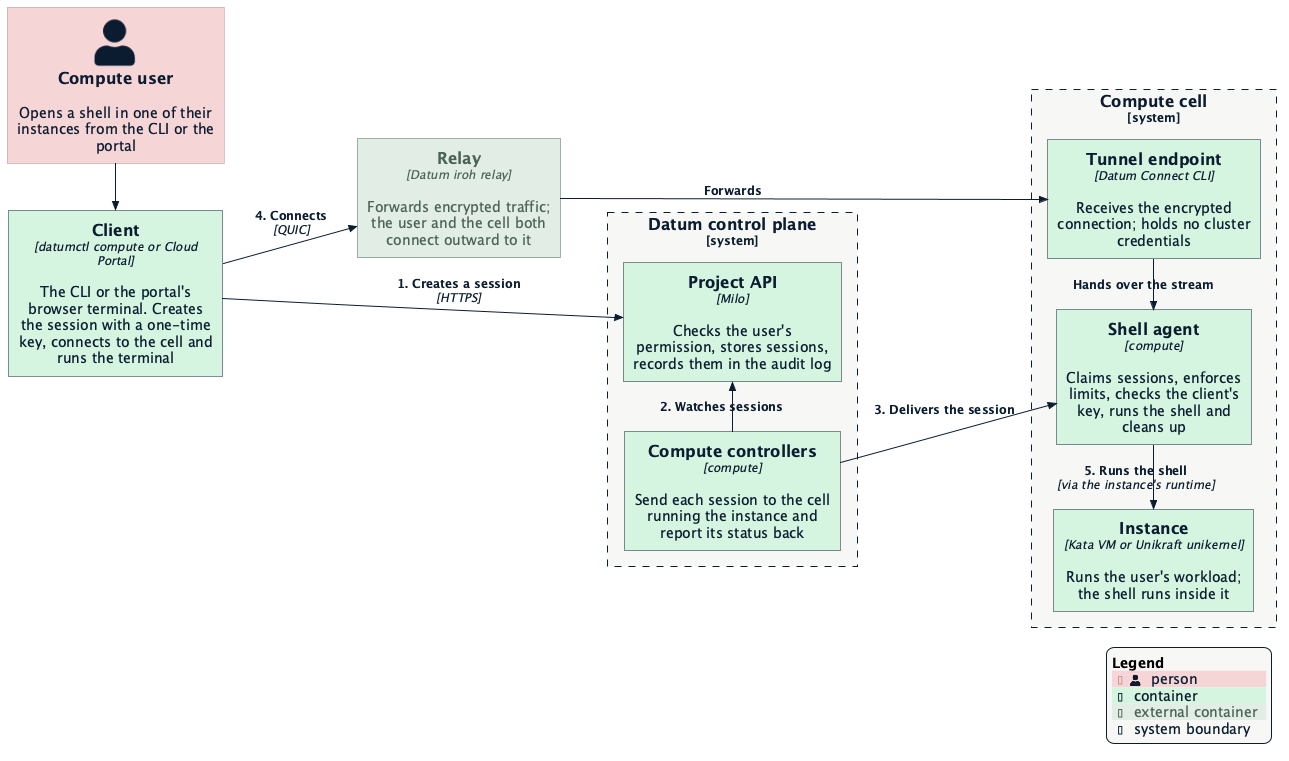
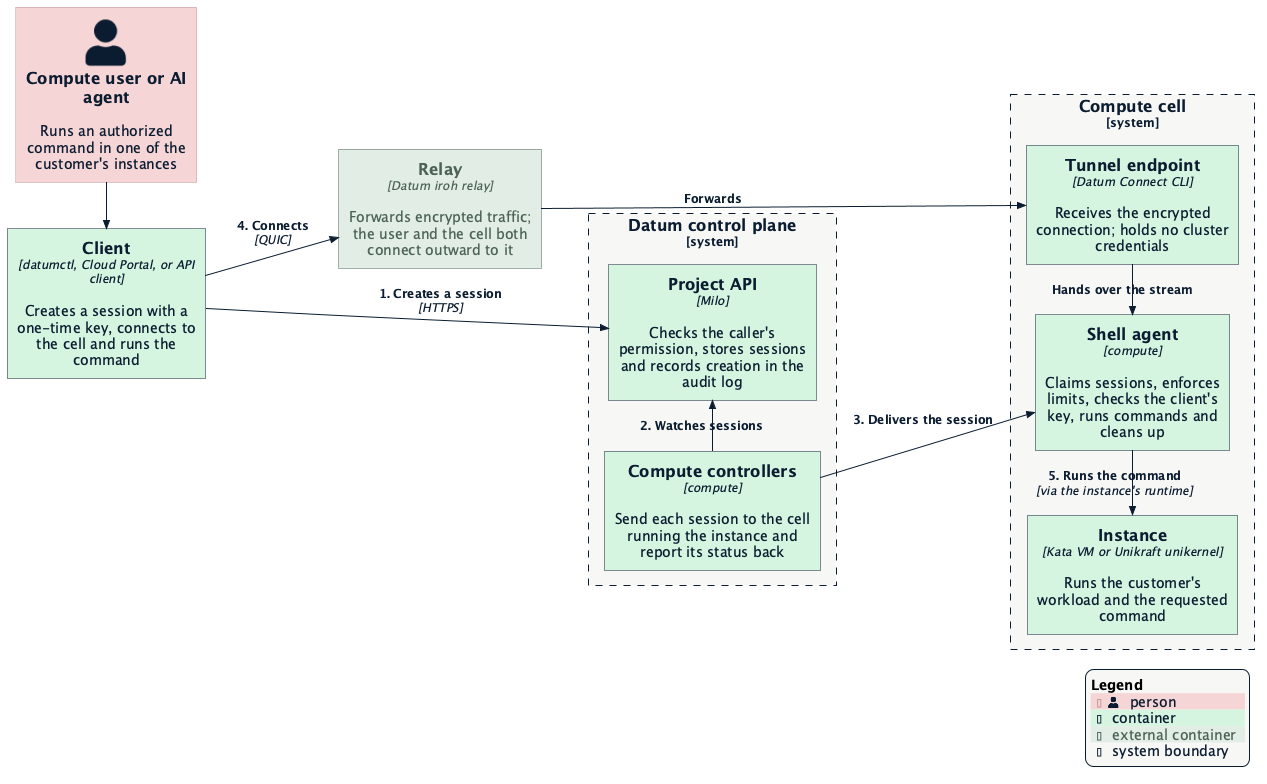
docs: close shell session design gaps

Changed region(s): [[0.0, 0.1209, 0.985, 0.816], [0.0, 0.0, 0.1847, 0.2418], [0.8619, 0.8463, 1.0, 0.9671]]

diff --git a/docs/enhancements/instance-shell-sessions/README.md b/docs/enhancements/instance-shell-sessions/README.md
@@ -34,8 +34,8 @@ supports) · [Federated Deployment Scheduling](../federated-deployment-schedulin
 
 ## Summary
 
-Let users open a live shell inside a running instance from the CLI or the Cloud
-Portal to inspect its state and run diagnostic commands.
+Let users and customer-controlled AI agents open a live shell or run a one-off
+command inside a running instance to inspect its state and diagnose problems.
 
 ## Motivation
 
@@ -50,12 +50,14 @@ have found a problem in the portal and have nowhere to go from there.
 
 ### Goals
 
-- A user with the right permission can open an interactive shell in a running
-  general-purpose (Kata) or unikernel (Unikraft) instance whose image contains
-  one. Both runtimes use the same CLI and portal workflow.
-- The p95 time from accepted session creation to the first prompt is less than
-  five seconds on supported production networks.
-- The project activity log provides a complete history of shell access.
+- A user or customer-controlled AI agent with the right permission can run an
+  interactive shell or one-off command in a running general-purpose (Kata) or
+  unikernel (Unikraft) instance. Both runtimes use the same API and client
+  workflow when the runtime and image meet the session requirements.
+- The p95 time from accepted session creation to an interactive prompt or
+  noninteractive process start is less than five seconds on supported
+  production networks.
+- The project activity log provides a complete history of session access.
 - Every session ends with an actionable explanation.
 - When a session ends, the platform stops every process that it started. File
   writes and other changes inside the instance remain until the instance is
@@ -90,14 +92,15 @@ A developer sees that an API fails in one location. They choose an affected
 instance, open a shell and trace the problem to a stale configuration file and
 a failing DNS lookup.
 
-#### An AI agent investigates a failure
+#### A customer's AI agent investigates a failure
 
-An authorized operations agent detects a failed health check, creates a session
-through the API, runs a targeted diagnostic command and reports its findings.
+A customer-controlled AI agent detects a failed health check, creates a session
+through the API with its project service identity, runs a targeted diagnostic
+command and reports its findings.
 
 ### Architecture
 
-After session creation, shell traffic travels straight from the user to the
+After session creation, command traffic travels straight from the client to the
 cell that runs the instance. Traffic is encrypted end to end, the control plane
 is not in the data path and cells accept no inbound connections.
 
@@ -107,8 +110,8 @@ Source: [c4-container-diagram.puml](./c4-container-diagram.puml)
 
 #### End-to-end flow
 
-The client can be `datumctl`, the Cloud Portal or an authorized AI agent. Each
-uses the same API and data path.
+The client can be `datumctl`, the Cloud Portal or a customer-controlled AI
+agent. Each uses the same API and data path.
 
 ![Instance shell session sequence](./sequence-diagram.png)
 
@@ -123,8 +126,11 @@ Source: [sequence-diagram.puml](./sequence-diagram.puml)
 - **Single-use session:** The first authenticated connection consumes the
   session and can run only the requested command. The agent rejects replays and
   command changes; deleting the session closes an active connection
-- **Short-lived:** Must connect within 60 seconds; lasts at most one hour
-- **Per-instance limit:** At most three shells can run in an instance at once
+- **Short-lived:** The cell gives clients a 60-second connection window and
+  limits command execution to one hour
+- **Per-instance limit:** At most three sessions can run in an instance at once
+- **Creation rate:** Preview defaults limit each identity to 10 new sessions
+  per minute and each project to 30; operators can lower these limits
 - **Isolation:** Cell network policy lets the tunnel endpoint reach only its
   agent
 
@@ -139,7 +145,10 @@ Source: [sequence-diagram.puml](./sequence-diagram.puml)
 - **Client library maintenance depends on one person:** Pin the Go iroh version;
   test it against the Rust tunnel endpoint in CI; keep a small Rust helper as a
   fallback
-- **Relay distance adds latency:** Route clients through Datum's regional relays
+- **Relay distance can miss the five-second p95 goal:** Review relay placement
+  and capacity; do not enable preview in a region until staging meets the goal
+- **Automated clients can overload session control paths:** Enforce identity,
+  project and per-instance limits; alert on sustained rejection volume
 - **The browser client is a large download:** Load it only when a terminal opens
   (about 3 MB compressed); cache it between visits
 - **A Datum Connect regression breaks shells:** Qualify each release in CI
@@ -160,9 +169,6 @@ apiVersion: compute.datumapis.com/v1alpha
 kind: InstanceConsoleSession
 metadata:
   # Clients use generateName because each resource represents one invocation.
-  # Deleting an active resource revokes it. A finalizer keeps the resource until
-  # the process stops and its reservation and audit event are complete. The
-  # cleanup controller deletes terminal resources after 24 hours.
   generateName: web-0-
 spec:
   # The whole spec is immutable. To change a request, delete it and create one.
@@ -178,20 +184,25 @@ spec:
   containerName: app
 
   # Required argument vector, not a shell string. It accepts 1–64 elements and
-  # at most 16 KiB in total.
+  # at most 16 KiB in total. The image must contain this executable and a
+  # supported shell, which the agent uses to manage the process group.
   command: ["sh"]
 
-  # true allocates a pseudoterminal and connects standard input. false closes
-  # input and keeps standard output and error separate for agents and scripts.
+  # Optional; defaults to false. Keeps standard input open when true, including
+  # without a terminal.
+  stdin: true
+
+  # Optional; defaults to false. Allocates a pseudoterminal and merges output
+  # streams when true. false preserves separate standard output and error.
   terminal: true
 
   # Required 32-byte iroh public key as 64 lowercase hexadecimal characters.
   # The private key remains in client memory and never enters the API.
[1 lines of base64/hex data omitted]
 
-  # Optional execution lifetime. Defaults to 1h and cannot exceed 1h. The
-  # client still has only 60 seconds after Ready=True to connect.
-  ttl: 1h
+  # Optional command lifetime, measured from startedAt. Defaults to 15m and
+  # cannot exceed 1h.
+  ttl: 15m
 status:
   # All status fields are output only.
   connection:
@@ -200,23 +211,22 @@ status:
     relayURLs:
       - https://iroh-relay.us-central-1.datumconnect.net
 
-  # Connection and execution deadlines set when the cell claims the session.
+  # Absolute deadline set from the shell agent's clock when it publishes the
+  # connectable status. Status propagation consumes part of the 60-second
+  # window, so clients should connect immediately.
   connectBefore: "2026-09-29T18:01:00Z"
-  expiresAt: "2026-09-29T19:00:00Z"
 
-  # Set as the command advances through its lifecycle.
+  # Set when the command starts and calculated as startedAt plus spec.ttl.
   # startedAt: "2026-09-29T18:00:10Z"
+  # expiresAt: "2026-09-29T18:15:10Z"
   # endedAt: "2026-09-29T18:04:32Z"
 
   # Set only when the runtime reports a normal process exit. datumctl returns
   # this value; without one, it returns nonzero and shows the condition reason.
   # exitCode: 0
 
-  # Ready is the only condition type. It is Unknown while pending, True when
-  # the client can connect and False after rejection or termination. A terminal
-  # condition never changes. Terminal reasons are Completed, Expired, Revoked,
-  # NotConnected, AgentShutdown, AgentLost, TooManySessions, NoShell,
-  # InstanceNotRunning, InstanceNotFound and Invalid.
+  # Ready is Unknown while pending, True while connectable or connected, and
+  # False after rejection or termination. reason identifies the exact phase.
   conditions:
     - type: Ready
       status: "True"
@@ -226,18 +236,36 @@ status:
       observedGeneration: 1
 ```
 
-### Runtime and lifecycle
+### Session lifecycle
 
-- **Runtime capability.** Runtime classes advertise shell support, and sessions
-  for classes without the `exec` feature are refused. The agent also checks
-  that the selected image contains the requested command before accepting a
-  session:
+A session moves through `Pending`, `SessionReady` and `Connected`, then reaches
+one immutable terminal state. Terminal reasons are `Completed`, `Expired`,
+`Revoked`, `NotConnected`, `AgentShutdown`, `AgentLost`, `TooManySessions`,
+`NoShell`, `CommandUnavailable`, `InstanceNotRunning`, `InstanceNotFound`,
+and `Invalid`. The client uses the condition reason to distinguish a session
+waiting for a connection from one whose command is running.
+
+Deleting an active session revokes it. A finalizer waits up to five minutes for
+the cell to stop the process and release its reservation. If the cell does not
+confirm cleanup, the controller records `CleanupUnconfirmed` and removes the
+finalizer; it never reports cleanup as confirmed. This cleanup outcome is a
+lifecycle event, not a replacement for the immutable terminal reason. The
+cleanup controller deletes terminal session resources after 24 hours. Audit
+records outlive the resource.
+
+### Runtime and routing
+
+- **Runtime capability.** Runtime classes advertise the `exec` feature, and
+  sessions for classes without it are refused. The agent also checks that the
+  selected image contains a supported shell and the requested executable
+  before accepting a session:
   - **General-purpose (Kata):** The runtime supports exec natively.
   - **Unikernel (Unikraft):** The Unikraft exec plugin provides exec when the
     cell's exec policy enables it.
-- **Existing Unikraft instances.** The provider reconciles its exec annotation
-  onto existing instance Pods. Kraftlet must activate the plugin without
-  recreating the instance; otherwise, existing instances require recreation.
+- **Existing Unikraft instances.** The provider advertises `exec` only after
+  Kraftlet activates the plugin. The provider first requests dynamic activation;
+  if the capability does not appear before the reconciliation deadline, it
+  recreates the instance. It does not advertise `exec` before activation.
 - **Routing.** Instances record which cell runs them, and sessions follow the
   same federation path as the workloads they target.
 - **Audit record.** The Project API audit pipeline records session creation
@@ -267,13 +295,15 @@ crash recovery, the per-instance limit, clean endings and network isolation.
 - **Tunnel keys:** the shell agent creates an endpoint identity key and stores
   it in a secret local to its cell. The tunnel endpoint mounts the secret
   read-only and has no Kubernetes API credentials. The key identifies the
-  endpoint to clients but does not authorize a shell, so a leak is confined to
-  one cell. The agent rotates the secret; open shells on that endpoint end and
-  users start new sessions.
+  endpoint to clients but does not authorize a session, so a leak is confined to
+  one cell. The agent rotates the secret every 30 days and immediately after
+  suspected compromise. Rotation ends open sessions on that endpoint with
+  `AgentShutdown`; clients can create new sessions.
 - **Scale-to-zero:** opening a shell does not wake an instance. A session for a
-  stopped instance fails before connecting and tells the user to start an
-  instance. This avoids changing workload scale or incurring cost as a side
-  effect of a diagnostic action.
+  stopped instance fails before connecting and tells the user to select a
+  running instance or raise the workload's minimum replica count. This avoids
+  changing workload scale or incurring cost as a side effect of a diagnostic
+  action.
 - **Tunnel code:** the tunnel endpoint runs the Datum Connect CLI, so shells
   and Datum Connect share one tunnel implementation. Its license prevents
   linking it into `datumctl`; it does not prevent cells from running it as a
@@ -283,7 +313,7 @@ crash recovery, the per-instance limit, clean endings and network isolation.
 
 ### Feature enablement and rollback
 
-- **Enable / disable:** a compute feature gate and the shell capability on each
+- **Enable / disable:** a compute feature gate and the `exec` feature on each
   runtime class control the feature. Setting the Unikraft provider's exec
   policy to `always` enables that runtime. Disabling any applicable switch
   stops new sessions; open sessions end with a clear reason and their processes
@@ -301,29 +331,41 @@ missing shells, process cleanup and scale-to-zero.
 
 - **For users:** each session's `Ready` condition and reason.
 - **For operators:** sessions opened, active and ended by reason; time from
-  creation to first output; agent health per cell.
+  creation to the first interactive prompt, or to process start and first byte
+  for a noninteractive command; agent health per cell.
 
 ### Dependencies
 
-- **Relays:** New and open shells in the affected region fail; instances are
+- **Relays:** New and open sessions in the affected region fail; instances are
   unaffected
-- **Federation to cells:** New sessions are not delivered; open shells continue
-- **Kata runtime:** Shells fail for Kata instances on the affected node
-- **Unikraft exec plugin:** Shells fail for unikernel instances on the affected
+- **Federation to cells:** New sessions are not delivered; open sessions continue
+- **Kata runtime:** Sessions fail for Kata instances on the affected node
+- **Unikraft exec plugin:** Sessions fail for unikernel instances on the affected
   node
+- **Project API:** New sessions cannot be created; open data paths continue.
+  Controllers retry terminal status and event updates
+- **Activity system:** Sessions continue and the Project API audit record
+  remains authoritative. Activity views can lag until event delivery recovers
 
 ### Scalability
 
-One new API type, one object per session, created only on user action and
+One new API type, one object per session, created only on a client request and
 bounded by the per-instance limit and cleanup policy. Tests must cover
 simultaneous session creation, reservation release and agent failover.
 
 ### Troubleshooting
 
-- **Instance not running:** Explain that the user needs a running instance.
+- **Instance not running:** Tell the user to select a running instance or raise
+  the workload's minimum replica count.
 - **Instance missing:** Prompt the user to refresh the instance list.
-- **Image has no shell:** Tell the user to deploy an image with a supported
-  shell.
+- **Shell or command unavailable:** Tell the user to deploy an image with a
+  supported shell and the requested executable.
+- **Too many sessions:** Show the limit and ask the user to close a session or
+  wait for one to end.
+- **Relay unreachable:** Retry another advertised relay and report a regional
+  connectivity issue if none work.
+- **Agent restart or crash:** Show `AgentShutdown` or `AgentLost`, then let the
+  user create a new session.
 
 ## Implementation history
 
@@ -332,7 +374,13 @@ simultaneous session creation, reservation release and agent failover.
 
 ## Drawbacks
 
-- Operating cost and failure surface grow in every cell.
+- Every cell runs an agent and tunnel endpoint, which adds operating cost and
+  another failure surface.
+- Relays carry interactive traffic and need regional capacity.
+- Commands can mutate a running workload, so authorization and auditing
+  require more scrutiny than read-only diagnostics.
+- The browser client adds download weight, and automated clients add API and
+  audit volume.
 
 ## Alternatives
 
@@ -353,6 +401,11 @@ simultaneous session creation, reservation release and agent failover.
 
 - A shell agent and tunnel endpoint deployed to each compute cell, with
   network policy limiting both.
+- The Unikraft provider exec policy set to `always` in cells that advertise the
+  capability.
+- The session-create permission added to the default project-admin role.
+- An activity policy that maps session creation and lifecycle events into the
+  project activity log.
 - A released container image of the Datum Connect CLI, including the fix that
   lets it shut down cleanly.
 - Relays served over TLS, with browser access allowed on their latency probe, so
